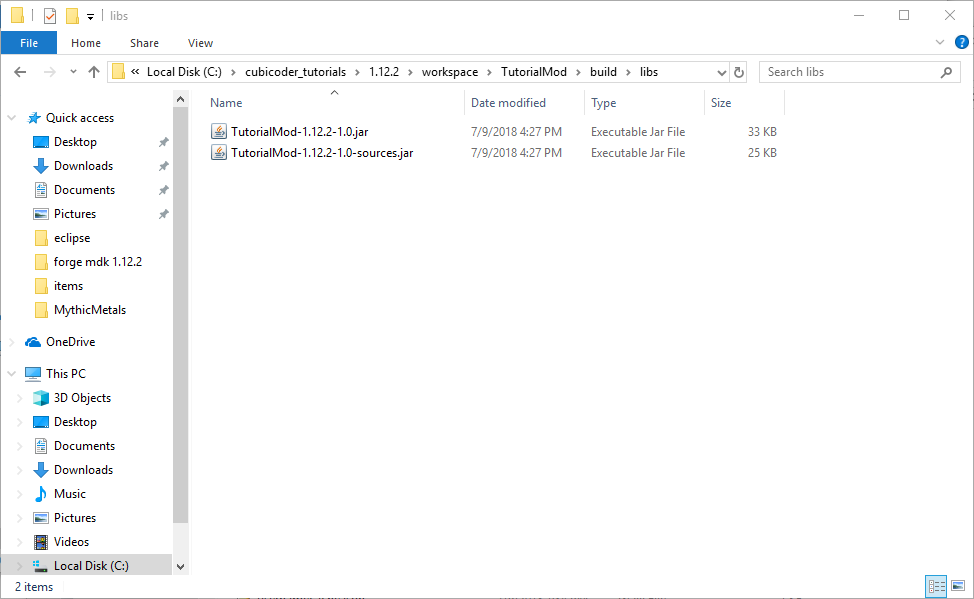
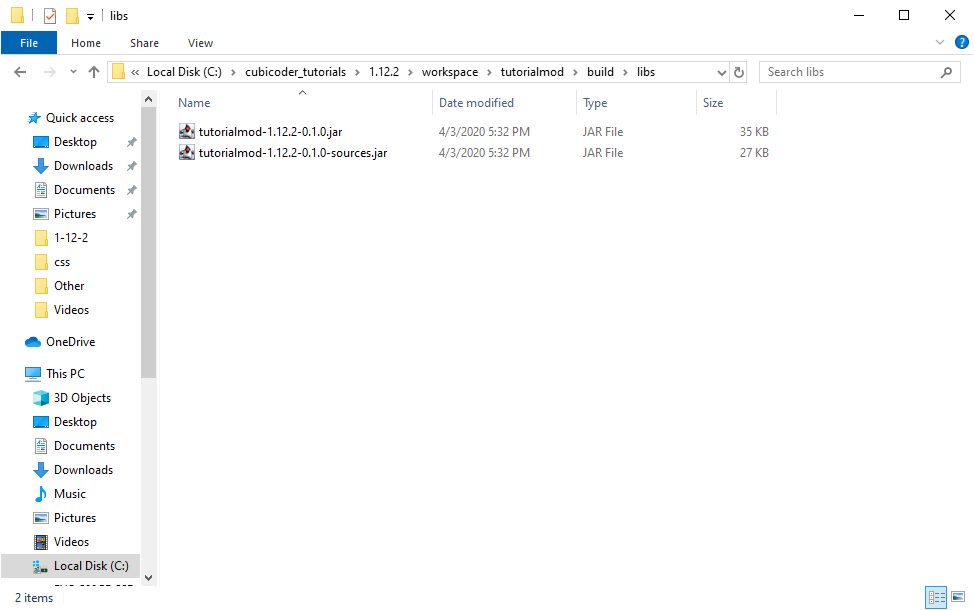
updated export your mod

diff --git a/tutorials/1-12-2/2018-07-09-exporting-your-mod.md b/tutorials/1-12-2/2018-07-09-exporting-your-mod.md
@@ -38,12 +38,12 @@ run
 ```
 Each line specifies a directory or file to ignore. The lines with `#` characters in front are comments.
 
-Next, we need to edit the build.gradle file. This file is responsible for giving various instructions on actually building the JAR file. We need to edit three values: version, group, and archivesBaseName. (Hopefully, these are pretty self-explanatory.) This process can be automated in 1.12.2, and will be fully automated in 1.13.
+Next, we need to edit the `build.gradle` file. This file is responsible for giving various instructions on actually building the JAR file. We need to edit three values: `version`, `group`, and `archivesBaseName`. The version should be prepended by the Minecraft version. Then, use a dash, followed by the version you specified in your main mod class. The group should be what you named your main package. `archivesBaseName` is your modid.
 ```groovy
-version = "1.12.2-1.0"
-group = "com.cubicoder.tutorialmod"
-archivesBaseName = "TutorialMod"
+version = "1.12.2-0.1.0"
+group = "cubicoder.tutorialmod"
+archivesBaseName = "tutorialmod"
 ```
-Finally open a command prompt in the root directory of the project (TutorialMod for me) and run the command `gradlew build` (`./gradlew build` if you're not on Windows). Your mod JAR will be in the directory `/build/libs/`.
+Then, you can open the Gradle Tasks pane in Eclipse and run the `build` task. Your mod JAR will be in the directory `/build/libs/`.
 ![export1](/img/12export/export1.png)
-Happy playing! You can now publish your mod on CurseForge if you think the world is ready for it.
+Happy playing!
